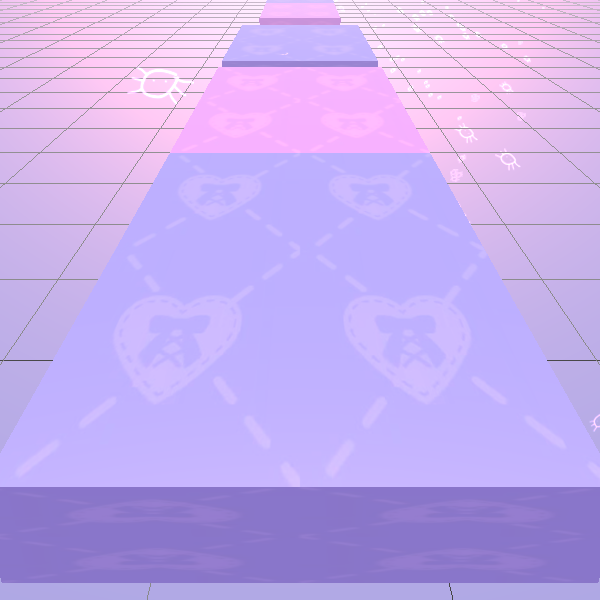
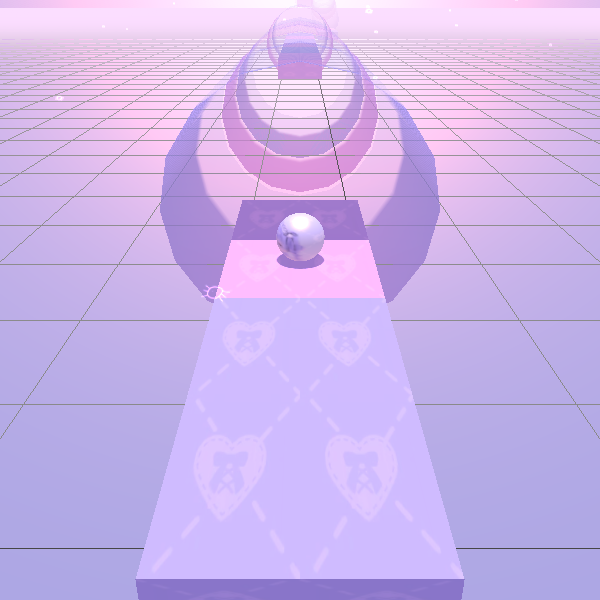
Add half-pipes

diff --git a/js/maps/MapGenerator.js b/js/maps/MapGenerator.js
@@ -9,7 +9,7 @@ mapData["3"] = {};
 mapData["1"]["1"] = "1~Tile0,0,0,10,0,0,0,0,1,1,1|Tile1,1,0,10,100,0,0,0,1,1,1|Tile2,0,0,10,200,0,0,0,1,1,1|Tile3,1,0,10,375,0,0,0,1,1,1|Tile4,0,0,10,475,0,0,0,1,1,1|Tile5,1,0,10,575,0,0,0,1,1,1|Tile6,0,0,10,825,0,0,0,1,1,1|Tile7,1,0,10,925,0,0,0,1,1,1|Tile8,0,0,10,1025,0,0,0,1,1,1|Tile9,1,0,10,1325,0,0,0,1,1,1|AmiyaBar,2,0,10,1400,0,0,0,1,1,1|AmiyaBar,2,0,10,1450,0,0,0,1,1,1|AmiyaBar,2,0,10,1500,0,0,0,1,1,1|Tile14,1,0,10,1575,0,0,0,1,1,1|Tile15,0,-30,10,1675,0,0,0,1,1,1|Tile16,1,-60,10,1775,0,0,0,1,1,1|Tile17,0,-60,10,1875,0,0,0,1,1,1|Tile18,1,-110,25,1875,0,0,-0.30000000000000004,1,1,1|Tile19,0,-110,25,1775,0,0,-0.30000000000000004,1,1,1|Tile20,1,-40,10,1975,0,0,0,1,1,1|Tile21,0,-20,10,2075,0,0,0,1,1,1|Tile22,1,50,10,2275,0,0,0,1,1,1|Tile23,0,50,10,2375,0,0,0,1,1,1|Tile24,1,50,10,2475,0,0,0,1,1,1|Tile25,0,0,10,2675,0,0,0,1,1,1|Tile26,1,0,10,2775,0,0,0,1,1,1|Tile27,0,0,30,2950,0,0,0,1,1,1|Tile28,1,0,30,3050,0,0,0,1,1,1|Tile29,0,0,20,3150,0.1,0,0,1,1,1|Tile30,1,0,10,3250,0,0,0,1,1,1|Tile31,0,0,10,3350,0,0,0,1,1,1|Player,2,-4,91,4908,0,0,0,1,1,1|Tile32,1,0,10,3450,0,0,0,1,1,1|Tile33,0,0,10,3600,0,0,0,2,1,2|Tile34,1,0,10,3800,0,0,0,2,1,2|Tile35,0,30,30,3775,0,0,0,1,1,1|Tile36,1,-20,30,3600,0,0,0,1,1,1|Tile37,0,30,35,4025,0,0,0,1,1,1|Tile38,1,-30,10,4025,0,0,0,1,1,1|Tile39,0,-30,10,4125,0,0,0,1,1,1|AmiyaBar40,1,30,35,4100,0,0,0,1,1,1|Tile41,0,30,35,4175,0,0,0,1,1,1|Tile42,1,-30,10,4225,0,0,0,1,1,1|Tile43,0,0,10,4325,0,0,0,1,1,1|Tile44,1,0,10,4425,0,0,0,1,1,1|Tile45,0,0,10,4525,0,0,0,1,1,1|Tile46,1,0,10,4625,0,0,0,1,1,1|Tile47,0,0,10,4825,0,0,0,1,1,1|Goal,1,0,70,4900,0,0,0,1,1,1"
 mapData["1"]["2"] = "1~Tile0,0,0,10,0,0,0,0,1,1,1|Tile1,1,0,10,100,0,0,0,1,1,1|Tile2,0,0,10,200,0,0,0,1,1,1|Tile3,1,30,30,300,-0.2,0,0,1,1,1|Tile4,0,30,50,400,0,0,0,1,1,1|Tile5,1,30,50,500,0,0,0,1,1,1|Tile6,0,30,65,600,0,0,0,1,1,1|Tile7,1,30,80,750,0,0,0,1,1,1|Tile8,0,30,80,850,0,0,0,1,1,1|Tile9,1,30,80,950,0,0,0,1,1,1|Tile10,0,30,100,1150,0,0,0,1,1,1|Tile11,1,30,100,1250,0,0,0,1,1,1|Tile12,0,-30,100,1475,0,0,0,1,1,1|Tile13,1,40,100,1675,0,0,0,1,1,1|AmiyaBar,2,40,100,1750,0,0,0,1,1,1|AmiyaBar,2,40,100,1800,0,0,0,1,1,1|Tile16,0,40,100,1875,0,0,0,1,1,1|Tile17,1,-30,10,300,0,0,0,1,1,1|Tile18,0,-30,10,400,0,0,0,1,1,1|Tile19,1,-30,10,575,0,0,0,1,1,1|Tile20,0,-30,10,675,0,0,0,1,1,1|Tile21,1,-80,20,775,0,0,-0.2,1,1,1|Tile22,0,-80,20,875,0,0,-0.2,1,1,1|Tile23,1,-80,20,975,0,0,-0.2,1,1,1|Tile24,0,-80,20,1150,0,0,-0.2,1,1,1|Tile25,1,-70,40,1250,0,0,-0.2,1,1,1|Tile26,0,-60,60,1350,0,0,-0.2,1,1,1|Tile28,1,-10,25,1450,0,0,0,1,1,1|Tile29,0,-10,25,1550,0,0,0,1,1,1|Tile30,1,-10,25,1650,0,0,0,1,1,1|AmiyaBar,2,-10,25,1725,0,0,0,1,1,1|AmiyaBar,2,-10,25,1775,0,0,0,1,1,1|Tile33,0,-10,25,1850,0,0,0,1,1,1|Tile34,1,30,30,2100,0,0,0.1,2,1,2|Tile35,0,30,30,2300,0,0,0.1,2,1,2|Tile36,1,-40,30,2500,0,0,-0.30000000000000004,1.5,1,1.5|Tile37,0,-40,30,2725,0,0,-0.30000000000000004,1.5,1,1.5|Tile38,1,50,30,2975,0,0,0.2,1.5,1,1.5|Tile39,0,50,30,3125,0,0,0.2,1.5,1,1.5|Tile40,1,-30,20,3325,0,0,-0.30000000000000004,1,1,1|Tile41,0,-50,35,3425,0,0,-0.30000000000000004,1,1,1|Tile42,1,-70,50,3525,0,0,-0.30000000000000004,1,1,1|Tile43,0,-70,50,3625,0,0,-0.30000000000000004,1,1,1|Tile44,1,-40,30,3725,0,0,-0.30000000000000004,1,1,1|Tile45,0,-10,15,3825,0,0,-0.1,1,1,1|Tile46,1,10,15,3925,0,0,0,1,1,1|Tile47,0,10,15,4025,0,0,0,1,1,1|Player,2,0,112,6375,0,0,0,1,1,1|AmiyaBar48,1,10,15,4100,0,0,0,1,1,1|AmiyaBar49,0,10,15,4150,0,0,0,1,1,1|Tile50,1,10,15,4225,0,0,0,1,1,1|Tile51,0,10,25,4325,-0.1,0,0,1,1,1|Tile52,1,10,25,4425,0.1,0,0,1,1,1|Tile53,0,10,25,4525,-0.1,0,0,1,1,1|Tile54,1,10,25,4625,0.1,0,0,1,1,1|Tile55,0,10,25,4725,-0.1,0,0,1,1,1|Tile56,1,10,35,4825,0,0,0,1,1,1|Tile57,0,10,35,4925,0,0,0,1,1,1|Tile58,1,10,35,5125,0,0,0,1.75,1,1.75|Tile59,0,10,55,5300,0,0,0,1.75,1,1.75|Tile60,1,0,75,5475,0,0,-0.30000000000000004,1.75,1,1.75|Tile61,0,0,75,5700,0,0,0,1.75,1,1.75|Tile62,1,0,75,5950,0,0,0.30000000000000004,1.75,1,1.75|Tile63,0,0,75,6225,0,0,0,1.75,1,1.75|Goal,1,0,90,6375,0,0,0,1,1,1"
 mapData["1"]["3"] = "1~Tile0,0,0,10,0,0,0,0,1,1,1|Tile1,1,0,10,125,0,0,0,1.5,1,1.5|Tile2,0,0,10,300,0,0,0,2,1,2|Tile3,1,100,50,300,0,0,0.1,2,1,2|Tile4,0,-100,50,300,0,0,-0.1,2,1,2|Tile5,1,-100,50,500,0,0,-0.1,2,1,2|Tile6,0,100,50,500,0,0,0.1,2,1,2|Tile7,1,0,30,500,-0.1,0,0,2,1,2|Ball8,0,106,74,250,-0.054739780724048615,-0.04013173282146454,0.40925562381744385,2,2,2|Ball9,1,106,74,275,-0.054745543748140335,-0.0401325598359108,0.40925437211990356,2,2,2|Ball10,0,106,74,300,-0.05474013835191727,-0.040131352841854095,0.4092544913291931,2,2,2|Ball11,1,106,74,325,-0.05473880469799042,-0.04013102501630783,0.4092543423175812,2,2,2|Ball12,0,106,74,350,-0.05473979562520981,-0.04013115167617798,0.40925413370132446,2,2,2|Ball13,1,106,74,375,-0.054740551859140396,-0.04013202711939812,0.40925535559654236,2,2,2|Ball14,0,106,74,399,-0.06581246107816696,-0.04020026698708534,0.4143519699573517,2,2,2|Ball15,1,106,74,425,-0.05473834276199341,-0.04013090953230858,0.4092554748058319,2,2,2|Ball16,0,106,74,450,-0.05474001169204712,-0.04013172909617424,0.4092555046081543,2,2,2|Ball17,1,106,74,475,-0.054745543748140335,-0.0401325598359108,0.40925437211990356,2,2,2|Ball18,0,106,74,500,-0.05474013835191727,-0.040131352841854095,0.4092544913291931,2,2,2|Ball19,1,106,74,525,-0.05473914369940758,-0.04013112187385559,0.4092548191547394,2,2,2|Ball20,0,106,74,550,-0.05473979562520981,-0.04013115167617798,0.40925413370132446,2,2,2|Ball21,1,106,74,575,-0.054740600287914276,-0.040131986141204834,0.40925535559654236,2,2,2|Ball22,0,30,106,544,-0.4285458028316498,1.558113069677347e-7,-0.0000018307022173758014,2,2,2|Ball23,1,-30,106,544,-0.42854562401771545,7.251338018932074e-8,2.4633547468511097e-7,2,2,2|Ball24,0,-106,74,575,-0.054740600287914276,0.040131986141204834,-0.40925535559654236,2,2,2|Ball25,1,-106,74,550,-0.05473979562520981,0.04013115167617798,-0.40925413370132446,2,2,2|Ball26,0,-106,74,525,-0.05473914369940758,0.04013112187385559,-0.4092548191547394,2,2,2|Ball27,1,-106,74,500,-0.05474013835191727,0.040131352841854095,-0.4092544913291931,2,2,2|Ball28,0,-106,74,475,-0.054745543748140335,0.0401325598359108,-0.40925437211990356,2,2,2|Ball29,1,-106,74,450,-0.05474001169204712,0.04013172909617424,-0.4092555046081543,2,2,2|Ball30,0,-106,74,425,-0.05473834276199341,0.04013090953230858,-0.4092554748058319,2,2,2|Ball31,1,-106,74,399,-0.06602411717176437,0.03982996568083763,-0.4135934114456177,2,2,2|Ball32,0,-106,74,375,-0.054740551859140396,0.04013202711939812,-0.40925535559654236,2,2,2|Ball33,1,-106,74,350,-0.05473979562520981,0.04013115167617798,-0.40925413370132446,2,2,2|Ball34,0,-106,74,325,-0.05473880469799042,0.04013102501630783,-0.4092543423175812,2,2,2|Ball35,1,-106,74,300,-0.05474013835191727,0.040131352841854095,-0.4092544913291931,2,2,2|Ball36,0,-106,74,275,-0.054745543748140335,0.0401325598359108,-0.40925437211990356,2,2,2|Ball37,1,-106,74,250,-0.054739780724048615,0.04013173282146454,-0.40925562381744385,2,2,2|Tile38,0,0,30,725,0,0,0,1,1,1|Tile39,1,0,20,875,0,0,0,1,1,1|Tile40,0,0,5,1025,0,0,0,1,1,1|Tile41,1,0,5,1125,0,0,0,1,1,1|Tile42,0,0,5,1275,0,0,0,2,1,2|Tile43,1,-100,15,1275,0,0,-0.1,2,1,2|Tile44,0,0,5,1475,0,0,0,2,1,2|Tile45,1,-100,15,1475,0,0,-0.1,2,1,2|Tile46,0,0,25,1675,0,0,0,2,1,2|Tile47,1,100,25,1475,0,0,0.2,2,1,2|Tile48,0,0,45,1875,-0.1,0,0,2,1,2|Tile49,1,100,25,1275,0,0,0.2,2,1,2|Ball50,0,40,21,1225,0,0,-4.257489916170698e-9,1,1,1|Ball51,1,20,21,1225,0.0000010902772373810876,2.019097996436292e-12,-0.0000019517276541591855,1,1,1|Ball52,0,0,21,1225,0.0000075941738941764925,6.243201485303662e-13,2.012280759799978e-7,1,1,1|Ball53,1,-20,21,1225,-0.00000670759754939354,1.3594072428065734e-14,-4.447008983277101e-9,1,1,1|Ball54,0,-40,21,1225,-0.000002272605343023315,7.37179987010359e-17,3.3584444253387247e-11,1,1,1|Ball55,1,-40,21,1250,8.103223763100686e-7,4.535797905075734e-16,-1.1297338620153141e-9,1,1,1|Ball56,0,-20,21,1250,-0.000004526142220129259,5.648086165432886e-13,-0.000004295767666917527,1,1,1|Ball57,1,0,21,1250,0,0,0,1,1,1|Ball58,0,20,21,1250,-0.00000481210918223951,-1.9544879603650145e-11,-0.000003986857791460352,1,1,1|Ball59,1,40,21,1250,-0.000004766693109559128,-8.78776218460331e-12,-0.0000031994859455153346,1,1,1|Ball60,0,40,21,1275,0,0,0,1,1,1|Ball61,1,20,21,1275,-0.0000025912415821949253,-1.0947322909293788e-11,-0.00000522623076903983,1,1,1|Ball62,0,0,21,1275,0.0000148066392284818,-3.022504468930265e-10,0.00006073272743378766,1,1,1|Ball63,1,-20,21,1275,-0.000007517168342019431,-1.8792196965211616e-11,-0.0000024742864752624882,1,1,1|Ball64,0,-40,21,1275,-0.00000685420491208788,6.158198950778626e-13,0.0000037613567656080704,1,1,1|Ball65,1,-40,21,1300,-0.000007619022198923631,-1.6502404098176632e-14,-8.035632603764498e-9,1,1,1|Ball66,0,-20,21,1300,-2.227527033937804e-7,-2.2486620204764662e-11,-0.000003431738832659903,1,1,1|Ball67,1,0,21,1300,-3.8088666087787715e-7,1.3262981858608303e-11,-0.00000126832321711845,1,1,1|Ball68,0,20,21,1300,-0.000009635781680117361,2.458971394558862e-12,-0.000001055264533533773,1,1,1|Ball69,1,40,21,1300,0.000006630168627452804,-7.776567475907548e-14,1.2897948487022859e-8,1,1,1|Ball70,0,40,21,1325,-0.000008690411050338298,-3.7917938103607107e-16,1.2835880802697375e-8,1,1,1|Ball71,1,20,21,1325,-0.0000031198389933706494,7.310353711265094e-12,-0.0000036762844501936343,1,1,1|Ball72,0,0,21,1325,0.0000018469925180397695,2.1874509148478438e-11,-0.000004021455424663145,1,1,1|Ball73,1,-20,21,1325,-0.000007973632818902843,7.454642805826417e-12,-0.0000017295778889092617,1,1,1|Ball74,0,-40,21,1325,-0.00000522227037436096,8.315910460243714e-12,0.000006637596015934832,1,1,1|Ball75,1,-40,21,1350,-0.00000778171124693472,-4.771546656054393e-15,-2.810964261357185e-8,1,1,1|Ball76,0,-20,21,1350,-2.5576312623343256e-7,-1.6967592261774023e-11,-0.000005419600256573176,1,1,1|Ball77,1,0,21,1350,0.0000027135010896017775,-1.1753987540219502e-12,-0.0000010867453283935902,1,1,1|Ball78,0,20,21,1350,0.000008949681614467409,-9.853838231488332e-12,0.0000011372284234312247,1,1,1|Ball79,1,40,21,1350,0.000005765185505879344,1.8478427121770835e-11,0.000006481118361989502,1,1,1|Ball80,0,40,21,1374,-0.10011490434408188,-0.00000907939738681307,0.00003075483982684091,1,1,1|Ball81,1,20,21,1374,-0.10012030601501465,0.000006154800303193042,-0.00002764266355370637,1,1,1|Ball82,0,0,21,1374,-0.10011491179466248,1.0754349943908892e-7,-0.0000012544037417683285,1,1,1|Ball83,1,-20,21,1376,0.10018140822649002,0.000006660941380687291,0.00004131221430725418,1,1,1|Ball84,0,-40,21,1376,0.1001824215054512,2.7092906407233386e-7,0.000002547691565268906,1,1,1|Ball85,1,-40,21,1400,-0.000007395035936497152,2.898912013216126e-12,-0.000001103469003282953,1,1,1|Ball86,0,-20,21,1400,0.000004696270480053499,2.1304950859057925e-11,-0.000004640676706912927,1,1,1|Ball87,1,0,21,1400,0.0000034273577966814628,-3.4492981387801436e-12,0.000002625974047987256,1,1,1|Ball88,0,20,21,1400,0.000006908239811309613,-1.7655755329970546e-11,-0.000003327566446387209,1,1,1|Ball89,1,40,21,1400,0.000007288658252946334,-5.629189822609071e-12,-0.0000021158218714845134,1,1,1|Ball90,0,40,21,1425,0,0,-4.257489916170698e-9,1,1,1|Ball91,1,20,21,1425,0.0000010902772373810876,2.019097996436292e-12,-0.0000019517276541591855,1,1,1|Ball92,0,0,21,1425,0.0000075941738941764925,6.243201485303662e-13,2.012280759799978e-7,1,1,1|Ball93,1,-20,21,1425,-0.00000670759754939354,1.3594072428065734e-14,-4.447008983277101e-9,1,1,1|Ball94,0,-40,21,1425,-0.000002272605343023315,7.37179987010359e-17,3.3584444253387247e-11,1,1,1|Ball95,1,-40,21,1450,8.103223763100686e-7,4.535797905075734e-16,-1.1297338620153141e-9,1,1,1|Ball96,0,-20,21,1450,-0.000004526142220129259,5.648086165432886e-13,-0.000004295767666917527,1,1,1|Ball97,1,0,21,1450,0,0,0,1,1,1|Ball98,0,20,21,1450,-0.00000481210918223951,-1.9544879603650145e-11,-0.000003986857791460352,1,1,1|Ball99,1,40,21,1450,-0.000004766693109559128,-8.78776218460331e-12,-0.0000031994859455153346,1,1,1|Ball100,0,40,21,1475,0,0,0,1,1,1|Ball101,1,20,21,1475,-0.0000025912415821949253,-1.0947322909293788e-11,-0.00000522623076903983,1,1,1|Ball102,0,0,21,1475,0.0000148066392284818,-3.022504468930265e-10,0.00006073272743378766,1,1,1|Ball103,1,-20,21,1475,-0.000007517168342019431,-1.8792196965211616e-11,-0.0000024742864752624882,1,1,1|Ball104,0,-40,21,1475,-0.00000685420491208788,6.158198950778626e-13,0.0000037613567656080704,1,1,1|Ball105,1,-40,21,1500,-0.000007619022198923631,-1.6502404098176632e-14,-8.035632603764498e-9,1,1,1|Ball106,0,-20,21,1500,-2.227527033937804e-7,-2.2486620204764662e-11,-0.000003431738832659903,1,1,1|Ball107,1,0,21,1500,-3.8088666087787715e-7,1.3262981858608303e-11,-0.00000126832321711845,1,1,1|Ball108,0,20,21,1500,-0.000009635781680117361,2.458971394558862e-12,-0.000001055264533533773,1,1,1|Ball109,1,40,21,1500,0.000006630168627452804,-7.776567475907548e-14,1.2897948487022859e-8,1,1,1|Ball110,0,40,21,1525,-0.000008690411050338298,-3.7917938103607107e-16,1.2835880802697375e-8,1,1,1|Ball111,1,20,21,1525,-0.0000031198389933706494,7.310353711265094e-12,-0.0000036762844501936343,1,1,1|Ball112,0,0,21,1525,0.0000018469925180397695,2.1874509148478438e-11,-0.000004021455424663145,1,1,1|Ball113,1,-20,21,1525,-0.000007973632818902843,7.454642805826417e-12,-0.0000017295778889092617,1,1,1|Ball114,0,-40,21,1525,-0.00000522227037436096,8.315910460243714e-12,0.000006637596015934832,1,1,1|Ball115,1,-40,21,1550,-0.00000778171124693472,-4.771546656054393e-15,-2.810964261357185e-8,1,1,1|Ball116,0,-20,21,1550,-2.5576312623343256e-7,-1.6967592261774023e-11,-0.000005419600256573176,1,1,1|Ball117,1,0,21,1550,0.0000027135010896017775,-1.1753987540219502e-12,-0.0000010867453283935902,1,1,1|Ball118,0,20,21,1550,0.000008949681614467409,-9.853838231488332e-12,0.0000011372284234312247,1,1,1|Ball119,1,40,21,1550,0.000005765185505879344,1.8478427121770835e-11,0.000006481118361989502,1,1,1|Ball120,0,0,79,1931,-0.37400975823402405,1.585103959200751e-8,-1.0775659120554337e-7,2,2,2|Ball121,1,-105,56,1300,0.0000012415392802722636,-0.0000010225413689113338,-0.402375727891922,2,2,2|Ball122,0,-105,56,1475,-0.0000015002833606558852,-1.6557176252263162e-7,-0.40237507224082947,2,2,2|Ball123,1,78,40,1250,6.037095658939506e-7,5.863777801096148e-7,0.40952810645103455,2,2,2|Ball124,0,78,40,1400,2.522348268030328e-7,1.0385170412519074e-7,0.40952640771865845,2,2,2|Tile125,1,0,35,2225,0,0,0,1,1,1|Tile126,0,0,25,2325,0.1,0,0,1,1,1|Tile127,1,0,25,2425,-0.1,0,0,1,1,1|Ball128,0,-10,44,2373,0.019451003521680832,-0.00002330748066015076,-0.0011814795434474945,1,1,1|Ball129,1,10,44,2373,-0.019432343542575836,-0.000024439967091893777,0.0012602292699739337,1,1,1|Tile130,0,0,35,2525,0,0,0,1,1,1|Tile131,1,0,50,2625,-0.2,0,0,1,1,1|Tile132,0,0,35,2750,0,0,0,2,1,2|Tile133,1,0,35,2950,0,0,0,2,1,2|Ball134,0,40,70,2700,0,0,0,2,2,2|Ball135,1,-40,70,2700,0,0,0,2,2,2|Ball136,0,40,70,2750,0,0,0,2,2,2|Ball137,1,-40,70,2750,0,0,0,2,2,2|Ball138,0,40,70,2800,0,0,0,2,2,2|Ball139,1,-40,70,2800,0,0,0,2,2,2|Ball140,0,40,70,2850,0,0,0,2,2,2|Ball141,1,-40,70,2850,0,0,0,2,2,2|Ball142,0,40,70,2900,0,0,0,2,2,2|Ball143,1,-40,70,2900,0,0,0,2,2,2|Ball144,0,40,70,2950,0,0,0,2,2,2|Ball145,1,-40,70,2950,0,0,0,2,2,2|Ball146,0,40,70,3000,0,0,0,2,2,2|Ball147,1,-40,70,3000,0,0,0,2,2,2|Player,2,-7,83,3225,0,0,0,1,1,1|AmiyaBar149,0,0,65,2700,0,0,0,1,1,1|AmiyaBar150,1,0,35,3075,0,0,0,1,1,1|Ball151,0,10,55,3000,0,0,0,1,1,1|Ball152,1,-10,55,3000,0,0,0,1,1,1|Ball153,0,-10,55,2975,0,0,0,1,1,1|Ball154,1,10,55,2975,0,0,0,1,1,1|Ball155,0,10,55,2950,0,0,0,1,1,1|Ball156,1,-10,55,2950,0,0,0,1,1,1|Ball157,0,-10,55,2900,0,0,0,1,1,1|Ball158,1,10,55,2900,0,0,0,1,1,1|Ball159,0,10,55,2875,0,0,0,1,1,1|Ball160,1,-10,55,2875,0,0,0,1,1,1|Ball161,0,-10,55,2825,0,0,0,1,1,1|Ball162,1,10,55,2825,0,0,0,1,1,1|Ball163,0,10,55,2800,0,0,0,1,1,1|Ball164,1,-10,55,2800,0,0,0,1,1,1|Tile165,0,0,35,3150,0,0,0,1,1,1|Tile166,1,0,35,3250,0,0,0,1,1,1|Tile167,0,0,55,3350,0,0,0,1,1,1|Tile168,1,0,75,3450,0,0,0,1,1,1|Tile169,0,0,95,3550,0,0,0,1,1,1|Tile170,1,0,95,3650,0,0,0,1,1,1|Tile171,0,0,95,3750,0,0,0,1,1,1|Goal,1,0,110,3825,0,0,0,1,1,1|Ball173,0,-10,120,3775,0,0,0,1,1,1|Ball174,1,10,120,3775,0,0,0,1,1,1|Ball175,0,10,120,3725,0,0,0,1,1,1|Ball176,1,-10,120,3725,0,0,0,1,1,1|Ball177,0,-10,120,3675,0,0,0,1,1,1|Ball178,1,10,120,3675,0,0,0,1,1,1|Ball179,0,10,120,3625,0,0,0,1,1,1|Ball180,1,-10,120,3625,0,0,0,1,1,1|Ball181,0,-10,120,3575,0,0,0,1,1,1|Ball182,1,10,120,3575,0,0,0,1,1,1|Ball183,0,10,120,3525,0,0,0,1,1,1|Ball184,1,-10,120,3525,0,0,0,1,1,1|Ball185,0,-10,95,3475,0,0,0,1,1,1|Ball186,1,10,95,3475,0,0,0,1,1,1|Ball187,0,10,95,3425,0,0,0,1,1,1|Ball188,1,-10,95,3425,0,0,0,1,1,1|Ball189,0,-10,75,3375,0,0,0,1,1,1|Ball190,1,10,75,3375,0,0,0,1,1,1|Ball191,0,10,75,3325,0,0,0,1,1,1|Ball192,1,-10,75,3325,0,0,0,1,1,1|Ball193,0,-10,65,3275,0,0,0,1,1,1|Ball194,1,10,65,3275,0,0,0,1,1,1|Ball195,0,10,65,3225,0,0,0,1,1,1|Ball196,1,-10,65,3225,0,0,0,1,1,1"
-mapData["1"]["4"] = "1~Tile0,0,0,10,0,0,0,0,2,1,2|Tile1,1,0,10,200,0,0,0,2,1,2|Tile2,0,0,10,425,0,0,0,2,1,2|Tile3,1,0,10,650,0,0,0,1.5,1,1.5|Tile4,0,0,10,800,0,0,0,1.5,1,1.5|Tile5,1,0,10,1025,0,0,0,1,1,1|Tile6,0,0,10,1125,0,0,0,1,1,1|Tile7,1,0,10,1375,0,0,0,1,1,1|Tile8,0,0,10,1475,0,0,0,1,1,1|Tile9,1,-30,10,1625,0,0,0,1,1,1|Tile10,0,-30,10,1775,0,0,0,1,1,1|Tile11,1,20,10,1925,0,0,0,1,1,1|Tile12,0,20,10,2125,0,0,0,1,1,1|Tile13,1,20,10,2225,0,0,0,1,1,1|Tile14,0,-30,10,2375,0,0,0,1,1,1|Tile15,1,70,10,2375,0,0,0,1,1,1|Tile16,0,70,10,2475,0,0,0,1,1,1|Tile17,1,-30,10,2575,0,0,0,1,1,1|Tile18,0,70,10,2675,0,0,0,1,1,1|Tile19,1,70,10,2775,0,0,0,1,1,1|Tile20,0,-50,10,2775,0,0,0,1,1,1|Tile21,1,-50,10,2875,0,0,0,1,1,1|Tile22,0,-50,10,2975,0,0,0,1,1,1|Tile23,1,0,10,2975,0,0,0,1,1,1|Tile24,0,0,10,3075,0,0,0,1,1,1|Tile25,1,0,10,3275,0,0,0,1,1,1|AmiyaBar,2,0,10,3350,0,0,0,1,1,1|Tile27,1,0,10,3425,0,0,0,1,1,1|Tile28,0,0,10,3525,0,0,0,1,1,1|Tile29,1,0,10,3675,0,0,0,1,1,1|Tile30,0,0,10,3925,0,0,0,1,1,1|Tile31,1,0,10,4175,0,0,0,1,1,1|Tile32,0,0,30,4275,0,0,0,1,1,1|Tile33,1,0,30,4375,0,0,0,1,1,1|Tile34,0,0,25,4550,0,0,0,1,1,1|Tile35,1,0,25,4650,0,0,0,1,1,1|Tile36,0,0,25,4750,0,0,0,1,1,1|Goal,2,0,85,4825,0,0,0,1,1,1|Player,2,-79,30,2522,0,0,0,1,1,1|Tile39,0,40,50,1600,0,0,0,1,1,1|AmiyaBar40,1,40,50,1675,0,0,0,1,1,1|Tile41,0,40,50,1750,0,0,0,1,1,1|AmiyaBar42,1,-80,10,2600,0,0,0,1,1,1|Tile43,0,-80,10,2525,0,0,0,1,1,1"
+mapData["1"]["4"] = "1~Tile0,0,0,10,0,0,0,0,1,1,1|Tile1,1,0,10,100,0,0,0,1,1,1|Tunnel2,0,0,15,200,0,0,0,2,2,2|Tunnel3,1,0,15,400,0,0,0,2,2,2|Tunnel4,0,0,15,500,0,0,0,2,2,2|Tile5,1,0,25,700,0,0,0,1,1,1|Tile6,0,0,25,800,0,0,0,1,1,1|Tile7,1,0,25,900,0,0,0,1,1,1|Tunnel8,0,0,40,875,0,0,0,1.5,1.5,1.5|Tunnel9,1,0,40,725,0,0,0,1.5,1.5,1.5|Tile10,0,0,25,1000,0,0,0,1,1,1|Tile11,1,0,25,1100,0,0,0,1,1,1|Tile12,0,0,25,1200,0,0,0,1,1,1|Tunnel13,1,0,0,1300,0,0,0,1,1,1|Tunnel14,0,0,0,1400,0,0,0,1,1,1|Tunnel15,1,0,0,1500,0,0,0,1,1,1|Tile16,0,-70,10,1675,0,0,0,1,1,1|Tile17,1,-70,10,1775,0,0,0,1,1,1|Tunnel18,0,-70,45,1875,-0.1,0,0,1.5,1.5,1.5|Tunnel19,1,-70,75,2025,-0.1,0,0,1.5,1.5,1.5|Tunnel20,0,-70,90,2100,-0.1,0,0,1.5,1.5,1.5|Tile22,1,-20,100,2375,0,0,0,1,1,1|Tile23,0,-20,100,2475,0,0,0,1,1,1|Player,2,-2,162,4084,0,0,0,1,1,1|AmiyaBar24,1,-20,100,2550,0,0,0,1,1,1|AmiyaBar25,0,-20,100,2600,0,0,0,1,1,1|AmiyaBar26,1,-20,100,2650,0,0,0,1,1,1|Tunnel27,0,-20,95,2725,0.1,0,0,1.75,1.75,1.75|Tile28,1,-20,85,2750,0.1,0,0,1.25,1,1.25|Tile29,0,-20,70,2875,0,0,0,1.25,1,1.25|Tile30,1,-20,70,3000,0,0,0,1.25,1,1.25|Tunnel31,0,-20,20,3200,0,0,0,1.25,1.25,1.25|Tunnel32,1,-20,20,3325,0,0,0,1.25,1.25,1.25|Tunnel33,0,50,20,3550,0,0,0,1.25,1.25,1.25|Tunnel34,1,-70,15,3725,0,0,0,1.25,1.25,1.25|Tunnel35,0,0,20,3875,0,0,0,1.25,1.25,1.25|Tunnel36,1,0,20,3975,0,0,0,1.75,1.75,1.75|Goal,0,0,140,4075,0,0,0,1,1,1"
 mapData["1"]["5"] = "1~Tile0,0,0,10,0,0,0,0,1,1,1|Tile1,1,0,10,100,0,0,0,1,1,1|Tile2,0,30,10,200,0,0,0.1,1,1,1|Tile3,1,40,10,300,0,0,0.2,1,1,1|Tile4,0,50,15,400,0,0,0.30000000000000004,1,1,1|Tile5,1,-30,15,525,0,0,-0.2,1,1,1|Tile6,0,-30,15,625,0,0,-0.2,1,1,1|Tile7,1,-30,15,725,0,0,-0.2,1,1,1|Tile8,0,50,15,825,0,0,0.2,1,1,1|Tile9,1,50,15,925,0,0,0.2,1,1,1|Tile10,0,50,15,1025,0,0,0.2,1,1,1|Tile11,1,-30,30,1075,0,0,-0.1,1,1,1|Tile12,0,-30,30,1175,0,0,-0.1,1,1,1|Tile13,1,50,10,1275,0,0,0.2,1,1,1|Tile14,0,50,10,1375,0,0,0.2,1,1,1|Tile15,1,-40,10,1475,0,0,-0.2,1,1,1|Tile16,0,-40,10,1575,0,0,-0.2,1,1,1|Tile17,1,-40,10,1750,0,0,-0.2,1,1,1|Tile18,0,-40,10,1850,0,0,-0.2,1,1,1|Tile19,1,-40,10,2100,0,0,-0.2,1,1,1|Tile20,0,-40,10,2200,0,0,-0.2,1,1,1|Tile21,1,30,10,2325,0,0,0.1,1,1,1|Tile22,0,30,10,2425,0,0,0.1,1,1,1|Player,2,-36,63,4367,0,0,0,1,1,1|Tile24,1,30,0,2600,0,0,0,2,1,2|Tile25,0,-70,0,2600,0,0,0,2,1,2|AmiyaBar26,1,-70,0,2750,0,0,0,2,1,2|AmiyaBar27,0,30,0,2750,0,0,0,2,1,2|Tile28,1,-20,0,2900,0,0,0,2,1,2|Tile29,0,-20,0,3050,0,0,0,1,1,1|Tile30,1,0,0,3225,0,0,0.1,1,1,1|Tile31,0,-50,0,3450,0,0,-0.1,1,1,1|Tile32,1,-50,0,3675,0,0,-0.30000000000000004,1,1,1|Tile33,0,-70,0,3875,0,0,-0.5,1,1,1|Tile34,1,0,5,4000,0,0,0.5,1,1,1|Tile35,0,-40,-5,4175,0,0,0,1,1,1|Tile36,1,-40,-5,4275,0,0,0,1,1,1|Goal,0,-40,45,4375,0,0,0,1,1,1"
 mapData["1"]["6"] = "1~Tile0,0,0,10,0,0,0,0,1,1,1|Tile1,1,0,10,125,0,0,0,1.5,1,1.5|Tile2,0,0,10,300,0,0,0,2,1,2|Tile3,1,100,50,300,0,0,0.1,2,1,2|Tile4,0,-100,50,300,0,0,-0.1,2,1,2|Tile5,1,-100,50,500,0,0,-0.1,2,1,2|Tile6,0,100,50,500,0,0,0.1,2,1,2|Tile7,1,0,30,500,-0.1,0,0,2,1,2|Ball8,0,130,125,250,-0.09805848449468613,0,0,2,2,2|Ball9,1,130,125,275,-0.09805848449468613,0,0,2,2,2|Ball10,0,130,125,300,-0.09805848449468613,0,0,2,2,2|Ball11,1,130,125,325,-0.09805848449468613,0,0,2,2,2|Ball12,0,130,125,350,-0.09805848449468613,0,0,2,2,2|Ball13,1,130,125,375,-0.09805848449468613,0,0,2,2,2|Ball14,0,130,125,400,-0.09805848449468613,0,0,2,2,2|Ball15,1,130,125,425,-0.09805848449468613,0,0,2,2,2|Ball16,0,130,125,450,-0.09805848449468613,0,0,2,2,2|Ball17,1,130,125,475,-0.09805848449468613,0,0,2,2,2|Ball18,0,130,125,500,-0.09805848449468613,0,0,2,2,2|Ball19,1,130,125,525,-0.09805848449468613,0,0,2,2,2|Ball20,0,130,125,550,-0.09805848449468613,0,0,2,2,2|Ball21,1,130,125,575,-0.09805848449468613,0,0,2,2,2|Ball22,0,30,125,575,-0.09805848449468613,0,0,2,2,2|Ball23,1,-30,125,575,-0.09805848449468613,0,0,2,2,2|Ball24,0,-130,125,575,-0.09805848449468613,0,0,2,2,2|Ball25,1,-130,125,550,-0.09805848449468613,0,0,2,2,2|Ball26,0,-130,125,525,-0.09805848449468613,0,0,2,2,2|Ball27,1,-130,125,500,-0.09805848449468613,0,0,2,2,2|Ball28,0,-130,125,475,-0.09805848449468613,0,0,2,2,2|Ball29,1,-130,125,450,-0.09805848449468613,0,0,2,2,2|Ball30,0,-130,125,425,-0.09805848449468613,0,0,2,2,2|Ball31,1,-130,125,400,-0.09805848449468613,0,0,2,2,2|Ball32,0,-130,125,375,-0.09805848449468613,0,0,2,2,2|Ball33,1,-130,125,350,-0.09805848449468613,0,0,2,2,2|Ball34,0,-130,125,325,-0.09805848449468613,0,0,2,2,2|Ball35,1,-130,125,300,-0.09805848449468613,0,0,2,2,2|Ball36,0,-130,125,275,-0.09805848449468613,0,0,2,2,2|Ball37,1,-130,125,250,-0.09805848449468613,0,0,2,2,2|Tile38,0,0,30,725,0,0,0,1,1,1|Tile39,1,0,20,875,0,0,0,1,1,1|Tile40,0,0,5,1025,0,0,0,1,1,1|Tile41,1,0,5,1125,0,0,0,1,1,1|Tile42,0,0,5,1275,0,0,0,2,1,2|Tile43,1,-100,15,1275,0,0,-0.1,2,1,2|Tile44,0,0,5,1475,0,0,0,2,1,2|Tile45,1,-100,15,1475,0,0,-0.1,2,1,2|Tile46,0,0,25,1675,0,0,0,2,1,2|Tile47,1,100,25,1475,0,0,0.2,2,1,2|Tile48,0,0,45,1875,-0.1,0,0,2,1,2|Tile49,1,100,25,1275,0,0,0.2,2,1,2|Ball50,0,40,25,1225,0,0,0,1,1,1|Ball51,1,20,25,1225,0,0,0,1,1,1|Ball52,0,0,25,1225,0,0,0,1,1,1|Ball53,1,-20,25,1225,0,0,0,1,1,1|Ball54,0,-40,25,1225,0,0,0,1,1,1|Ball55,1,-40,25,1250,0,0,0,1,1,1|Ball56,0,-20,25,1250,0,0,0,1,1,1|Ball57,1,0,25,1250,0,0,0,1,1,1|Ball58,0,20,25,1250,0,0,0,1,1,1|Ball59,1,40,25,1250,0,0,0,1,1,1|Ball60,0,40,25,1275,0,0,0,1,1,1|Ball61,1,20,25,1275,0,0,0,1,1,1|Ball62,0,0,25,1275,0,0,0,1,1,1|Ball63,1,-20,25,1275,0,0,0,1,1,1|Ball64,0,-40,25,1275,0,0,0,1,1,1|Ball65,1,-40,25,1300,0,0,0,1,1,1|Ball66,0,-20,25,1300,0,0,0,1,1,1|Ball67,1,0,25,1300,0,0,0,1,1,1|Ball68,0,20,25,1300,0,0,0,1,1,1|Ball69,1,40,25,1300,0,0,0,1,1,1|Ball70,0,40,25,1325,0,0,0,1,1,1|Ball71,1,20,25,1325,0,0,0,1,1,1|Ball72,0,0,25,1325,0,0,0,1,1,1|Ball73,1,-20,25,1325,0,0,0,1,1,1|Ball74,0,-40,25,1325,0,0,0,1,1,1|Ball75,1,-40,25,1350,0,0,0,1,1,1|Ball76,0,-20,25,1350,0,0,0,1,1,1|Ball77,1,0,25,1350,0,0,0,1,1,1|Ball78,0,20,25,1350,0,0,0,1,1,1|Ball79,1,40,25,1350,0,0,0,1,1,1|Ball80,0,40,25,1375,0,0,0,1,1,1|Ball81,1,20,25,1375,0,0,0,1,1,1|Ball82,0,0,25,1375,0,0,0,1,1,1|Ball83,1,-20,25,1375,0,0,0,1,1,1|Ball84,0,-40,25,1375,0,0,0,1,1,1|Ball85,1,-40,25,1400,0,0,0,1,1,1|Ball86,0,-20,25,1400,0,0,0,1,1,1|Ball87,1,0,25,1400,0,0,0,1,1,1|Ball88,0,20,25,1400,0,0,0,1,1,1|Ball89,1,40,25,1400,0,0,0,1,1,1|Ball90,0,40,25,1425,0,0,0,1,1,1|Ball91,1,20,25,1425,0,0,0,1,1,1|Ball92,0,0,25,1425,0,0,0,1,1,1|Ball93,1,-20,25,1425,0,0,0,1,1,1|Ball94,0,-40,25,1425,0,0,0,1,1,1|Ball95,1,-40,25,1450,0,0,0,1,1,1|Ball96,0,-20,25,1450,0,0,0,1,1,1|Ball97,1,0,25,1450,0,0,0,1,1,1|Ball98,0,20,25,1450,0,0,0,1,1,1|Ball99,1,40,25,1450,0,0,0,1,1,1|Ball100,0,40,25,1475,0,0,0,1,1,1|Ball101,1,20,25,1475,0,0,0,1,1,1|Ball102,0,0,25,1475,0,0,0,1,1,1|Ball103,1,-20,25,1475,0,0,0,1,1,1|Ball104,0,-40,25,1475,0,0,0,1,1,1|Ball105,1,-40,25,1500,0,0,0,1,1,1|Ball106,0,-20,25,1500,0,0,0,1,1,1|Ball107,1,0,25,1500,0,0,0,1,1,1|Ball108,0,20,25,1500,0,0,0,1,1,1|Ball109,1,40,25,1500,0,0,0,1,1,1|Ball110,0,40,25,1525,0,0,0,1,1,1|Ball111,1,20,25,1525,0,0,0,1,1,1|Ball112,0,0,25,1525,0,0,0,1,1,1|Ball113,1,-20,25,1525,0,0,0,1,1,1|Ball114,0,-40,25,1525,0,0,0,1,1,1|Ball115,1,-40,25,1550,0,0,0,1,1,1|Ball116,0,-20,25,1550,0,0,0,1,1,1|Ball117,1,0,25,1550,0,0,0,1,1,1|Ball118,0,20,25,1550,0,0,0,1,1,1|Ball119,1,40,25,1550,0,0,0,1,1,1|Ball120,0,0,160,1950,0,0,0,2,2,2|Ball122,1,-130,100,1300,0,0,0,2,2,2|Ball123,0,-130,100,1475,0,0,0,2,2,2|Ball124,1,130,100,1250,0,0,0,2,2,2|Ball125,0,130,100,1400,0,0,0,2,2,2|Player,2,-3,57,2729,0,0,0,1,1,1|Tile126,1,0,35,2225,0,0,0,1,1,1|Tile127,0,0,25,2325,0.1,0,0,1,1,1|Tile128,1,0,25,2425,-0.1,0,0,1,1,1|Ball129,0,-10,35,2375,0,0,0,1,1,1|Ball130,1,10,35,2375,0,0,0,1,1,1|Goal,0,0,35,2725,0,0,0,1,1,1"
 mapData["1"]["7"] = "1~Boost0,0,0,10,0,0,0,0,1,1,1|Boost1,1,0,10,100,0,0,0,1,1,1|Boost2,0,0,10,200,0,0,0,1,1,1|Boost3,1,0,20,300,-0.1,0,0,1,1,1|Tile4,0,0,30,625,0,0,0,1,1,1|Tile5,1,0,30,725,0,0,0,1,1,1|Tile6,0,0,30,825,0,0,0,1,1,1|Tile7,1,0,20,925,0.1,0,0,1,1,1|Tile8,0,0,10,1025,0,0,0,1,1,1|AmiyaBar,2,0,10,1100,0,0,0,1,1,1|Tile11,0,0,10,1175,0,0,0,1,1,1|Death12,1,0,-20,1250,0,0,0,1,1,1|Tile13,0,0,10,1300,0,0,0,1,1,1|Tile14,1,0,10,1400,0,0,0,1,1,1|Boost15,0,0,10,1500,0,0,0,1,1,1|Tile16,1,0,10,1600,0,0,0,1,1,1|Death17,0,0,-10,1650,0,0,0,1,1,1|Tile18,1,0,10,1725,0,0,0,1,1,1|Tile19,0,0,10,1825,0,0,0,1,1,1|Boost20,1,0,10,1925,0,0,0,1,1,1|Boost21,0,0,10,2050,0,0,0,1,1,1|Boost22,1,0,10,2175,0,0,0,1,1,1|Death23,0,0,-15,2000,0,0,0,1,1,1|Death24,1,0,-10,2125,0,0,0,1,1,1|Player,2,-4,52,2305,0,0,0,1,1,1|Goal,0,0,30,2300,0,0,0,1,1,1"
@@ -113,7 +113,6 @@ let tunnelTransparent = tunnelOpacity < 1;
 
 
 const TUNNEL_WIDTH = 50;
-const TUNNEL_HEIGHT = 60;
 const TUNNEL_DEPTH = 100;
 const TUNNEL_RADIAL_SEGMENTS = 16;
 
@@ -121,6 +120,11 @@ const TEXTURE_TUNNEL_MAIN = new THREE.TextureLoader().load('../images/amiyaroad/
 TEXTURE_TUNNEL_MAIN.wrapS = THREE.RepeatWrapping;
 TEXTURE_TUNNEL_MAIN.wrapT = THREE.RepeatWrapping;
 TEXTURE_TUNNEL_MAIN.repeat.set(2, 2);
+
+const TEXTURE_HALFPIPE_MAIN = new THREE.TextureLoader().load('../images/amiyaroad/tiles/Tile8.png');
+TEXTURE_HALFPIPE_MAIN.wrapS = THREE.RepeatWrapping;
+TEXTURE_HALFPIPE_MAIN.wrapT = THREE.RepeatWrapping;
+TEXTURE_HALFPIPE_MAIN.repeat.set(2, 2);
 
 
 let playerShininess = 30;
@@ -334,8 +338,11 @@ class MapGenerator {
                 let material = new THREE.MeshPhongMaterial({ color: materialHex, map: TEXTURE_BALL, shininess: tileShininess, specular: 0xd4aae7, transparent: tileTransparent, opacity: tileOpacity });
                 newTile = this.createBallWithPhysics("Ball" + i, BALL_RADIUS, BALL_MASS, this.pos, this.quat, this.scale, material);
             } else if (tileType.indexOf("Tunnel") >= 0) {
-                let material = new THREE.MeshPhongMaterial({ color: materialHex, map: TEXTURE_TUNNEL_MAIN, shininess: tileShininess, specular: 0xd4aae7, transparent: tunnelTransparent, opacity: tunnelOpacity });
-                newTile = this.createTunnelWithPhysics("Tunnel" + i, TUNNEL_WIDTH, TUNNEL_HEIGHT, TUNNEL_DEPTH, 0, this.pos, this.quat, this.scale, material);
+                let material = new THREE.MeshPhongMaterial({ color: materialHex, side: THREE.DoubleSide, map: TEXTURE_TUNNEL_MAIN, shininess: tileShininess, specular: 0xd4aae7, transparent: tunnelTransparent, opacity: tunnelOpacity });
+                newTile = this.createTunnelWithPhysics("Tunnel" + i, 0, this.pos, this.quat, this.scale, material);
+            } else if (tileType.indexOf("HalfPipe") >= 0) {
+                let material = new THREE.MeshPhongMaterial({ color: materialHex, side: THREE.DoubleSide, map: TEXTURE_HALFPIPE_MAIN, shininess: tileShininess, specular: 0xd4aae7, transparent: tileTransparent, opacity: tileOpacity });
+                newTile = this.createTunnelWithPhysics("HalfPipe" + i, 0, this.pos, this.quat, this.scale, material, Math.PI);
             }
             if (newTile) {
                 newTile.scale.x = this.scale.x;
@@ -408,18 +415,20 @@ class MapGenerator {
         return object;
 
     }
-    createTunnelWithPhysics(name, sx, sy, sz, mass, pos, quat, scale, material) {
+    createTunnelWithPhysics(name, mass, pos, quat, scale, material, startAngle = 0, endAngle = 2 * Math.PI) {
         const mesh = new Ammo.btTriangleMesh(true, true);
         mesh.setScaling(new Ammo.btVector3(scale.x, scale.y, scale.z));
+        let points = [];
+        var geometry = new THREE.BufferGeometry();
 
         let r = TUNNEL_WIDTH * 0.5;
-        let step = (2 * Math.PI) / TUNNEL_RADIAL_SEGMENTS;
+        let step = (endAngle - startAngle) / TUNNEL_RADIAL_SEGMENTS;
 
         let dx = 0;
         let dy = playerRadius;
         let dz = 0;
         console.log(dx, dy, dz);
-        for (let i = 0; i <= 2 * Math.PI; i += step) {
+        for (let i = startAngle; i <= endAngle; i += step) {
             let x = dx + (r * Math.cos(i));
             let y = dy + (r * Math.sin(i));
             let z = dz + ((TUNNEL_DEPTH * 0.5));
@@ -440,7 +449,29 @@ class MapGenerator {
                 new Ammo.btVector3(x, y, z),
                 true
             );
+            points.push(x);
+            points.push(y);
+            points.push(z);
 
+            points.push(x);
+            points.push(y);
+            points.push(z2);
+
+            points.push(x2);
+            points.push(y2);
+            points.push(z2);
+
+            points.push(x2);
+            points.push(y2);
+            points.push(z2);
+
+            points.push(x2);
+            points.push(y2);
+            points.push(z);
+
+            points.push(x);
+            points.push(y);
+            points.push(z);
         }
 
 
@@ -458,7 +489,7 @@ class MapGenerator {
 
                 const tx = 0;
                 const ty = playerRadius;
-                const tz = t * TUNNEL_DEPTH - (TUNNEL_DEPTH*0.5);
+                const tz = t * TUNNEL_DEPTH - (TUNNEL_DEPTH * 0.5);
 
                 return optionalTarget.set(tx, ty, tz).multiplyScalar(this.scale);
 
@@ -466,8 +497,12 @@ class MapGenerator {
 
         }
 
-        const path = new Tunnel(1);
-        const geometry = new THREE.TubeGeometry(path, 24, TUNNEL_WIDTH * 0.5, TUNNEL_RADIAL_SEGMENTS, true);
+        //const path = new Tunnel(1);
+        //const geometry = new THREE.TubeGeometry(path, 24, TUNNEL_WIDTH * 0.5, TUNNEL_RADIAL_SEGMENTS, true);
+        const vertices = new Float32Array(points);
+        geometry.setAttribute('position', new THREE.BufferAttribute(vertices, 3));
+        geometry.computeVertexNormals();
+        geometry.normalizeNormals();
 
         const shape = new Ammo.btBvhTriangleMeshShape(mesh, true, true);
         shape.setMargin(margin);
@@ -739,7 +774,7 @@ class MapGenerator {
             } else {
 
                 let materialHex = this.createColour(this.allObjects.length);
-                let material = new THREE.MeshPhongMaterial({ color: materialHex, map: TEXTURE_GHOST_TILE, transparent: true, opacity: 0.75 });
+                let material = new THREE.MeshPhongMaterial({ color: materialHex, map: TEXTURE_GHOST_TILE, side: THREE.DoubleSide, transparent: true, opacity: 0.75 });
 
                 this.ghostTile = this.getTileFromSelection(tileSelection, "GhostTile", material);
                 this.ghostTile.scale.x = tileScale;
@@ -847,8 +882,18 @@ class MapGenerator {
                 material = tileMaterial;
             }
             let actualTileName = this.getOrDefault(tileName, "Tunnel" + this.allObjects.length);
-            return this.createTunnelWithPhysics(actualTileName, TUNNEL_WIDTH, TUNNEL_HEIGHT, TUNNEL_DEPTH, 0, this.pos, this.quat, this.scale, material);
+            return this.createTunnelWithPhysics(actualTileName, 0, this.pos, this.quat, this.scale, material);
+        } else if (tileSelection == 8) {
+            //console.log("Add tunnel");
+            let material = new THREE.MeshPhongMaterial({ color: materialHex, side: THREE.DoubleSide, map: TEXTURE_HALFPIPE_MAIN, shininess: tileShininess, specular: 0xd4aae7, transparent: tileTransparent, opacity: tileOpacity });
+            
+            if (tileMaterial != null) {
+                material = tileMaterial;
+            }
+            let actualTileName = this.getOrDefault(tileName, "HalfPipe" + this.allObjects.length);
+            return this.createTunnelWithPhysics(actualTileName, 0, this.pos, this.quat, this.scale, material, Math.PI);
         }
+                
         return null;
     }
     addTile(scale, tileSelection, tilePos = null, tileQuat = null, genLevelString) {

diff --git a/amiyaroads.html b/amiyaroads.html
@@ -287,21 +287,15 @@
     <div class="hud hud--top hud--basic hide">
         <div class="hud hud--editor hud--editor_info hide">
             <ul>
-                <li>Arrows = Move. </li>
-                <li>CNTRL = Down.</li>
-                <li>Spacebar = Up.</li>
-                <li>WASD = Tilt.</li>
-                <li>1 = Tile.</li>
-                <li>2 = AmiyaBar.</li>
-                <li>3 = Goal.</li>
-                <li>4 = Boost.</li>
-                <li>5 = Death.</li>
-                <li>6 = Bucko Ball.</li>
-                <li>+ = Scale Up.</li>
-                <li>- = Scale Down.</li>
-                <li>Enter = Add to map.</li>
-                <li>R = Normalize tilt.</li>
-                <li>Backspace = Undo.</li>
+                <li>[Arrows]Move</li>
+                <li>[CNTRL]Down</li>
+                <li>[Spacebar] Up</li>
+                <li>[WASD]Tilt</li>
+                <li>[1]Tile [2]AmiyaBar [3]Goal [4]Boost [5]Death [6]Bucko Ball [7]Tunnel [8]Half-Pipe</li>
+                <li>[+]Scale Up</li>
+                <li>[-]Scale Down</li>
+                <li>[Enter]Add to map</li>
+                <li>[Backspace]Undo</li>
             </ul>
             <select class="hud--worldSelect">
                 <option value="1" data-lang-en="Amiyaland" data-lang-jp="アミヤランド">Amiyaland</option>

diff --git a/js/amiyaroads.js b/js/amiyaroads.js
@@ -9,7 +9,7 @@ import Stats from './jsm/libs/stats.module.js';
 import { LanguageToggle } from './utils/LanguageToggle.js';
 import { Vector3 } from 'three';
 
-const versionString = "PRE-ALPHA Build 0.3.26 \"Cat-Crab-Chotter\"";
+const versionString = "PRE-ALPHA Build 0.3.27 \"Cat-Crab-Chotter\"";
 
 let stats;
 
@@ -928,6 +928,9 @@ function setupContactResultCallback() {
 		} else if (tag.indexOf("Tunnel") >= 0) {
 			timeLastOnGround = clock.elapsedTime;
 			onGround = true;
+		} else if (tag.indexOf("HalfPipe") >= 0) {
+			timeLastOnGround = clock.elapsedTime;
+			onGround = true;
 		}
 
 	}
@@ -987,6 +990,8 @@ function initInput() {
 					tileSelection = 6;
 				} else if (keyStates.Digit7 && event.code == "Digit7") {
 					tileSelection = 7;
+				} else if (keyStates.Digit8 && event.code == "Digit8") {
+					tileSelection = 8;
 				}
 
 				if (keyStates.Equal && event.code == "Equal") {
